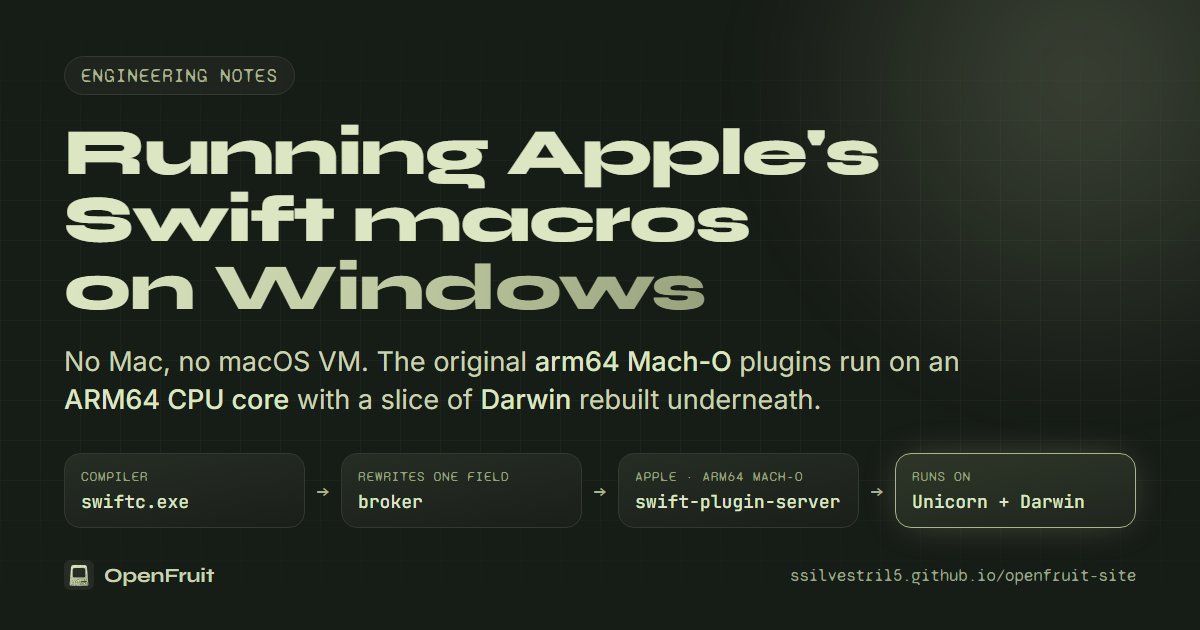
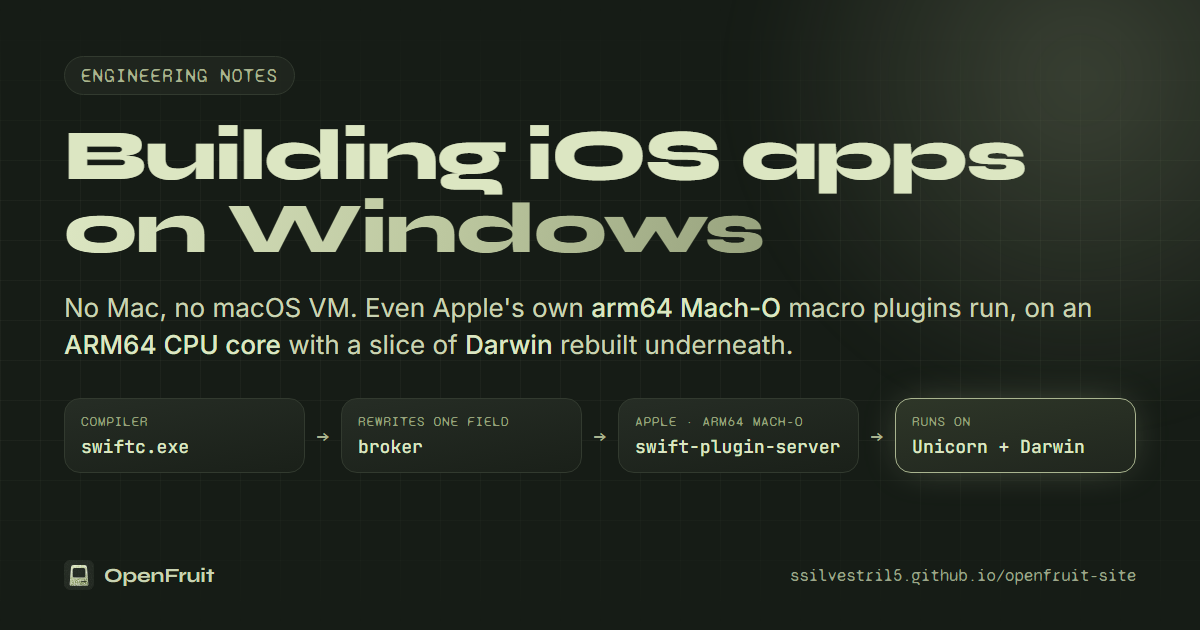
Engineering notes: preview image headline "Building iOS apps on Windows"

diff --git a/engineering.html b/engineering.html
@@ -13,7 +13,7 @@
 <meta property="og:image" content="https://ssilvestri15.github.io/openfruit-site/assets/engineering-social.png">
 <meta property="og:image:width" content="1200">
 <meta property="og:image:height" content="630">
-<meta property="og:image:alt" content="Running Apple's Swift macros on Windows: swiftc.exe, a broker, Apple's swift-plugin-server and an ARM64 CPU core with Darwin">
+<meta property="og:image:alt" content="Building iOS apps on Windows: swiftc.exe, a broker, Apple's swift-plugin-server and an ARM64 CPU core with Darwin">
 <meta name="twitter:card" content="summary_large_image">
 <meta name="twitter:image" content="https://ssilvestri15.github.io/openfruit-site/assets/engineering-social.png">
 <link rel="icon" href="assets/openfruit-icon.svg" type="image/svg+xml">
